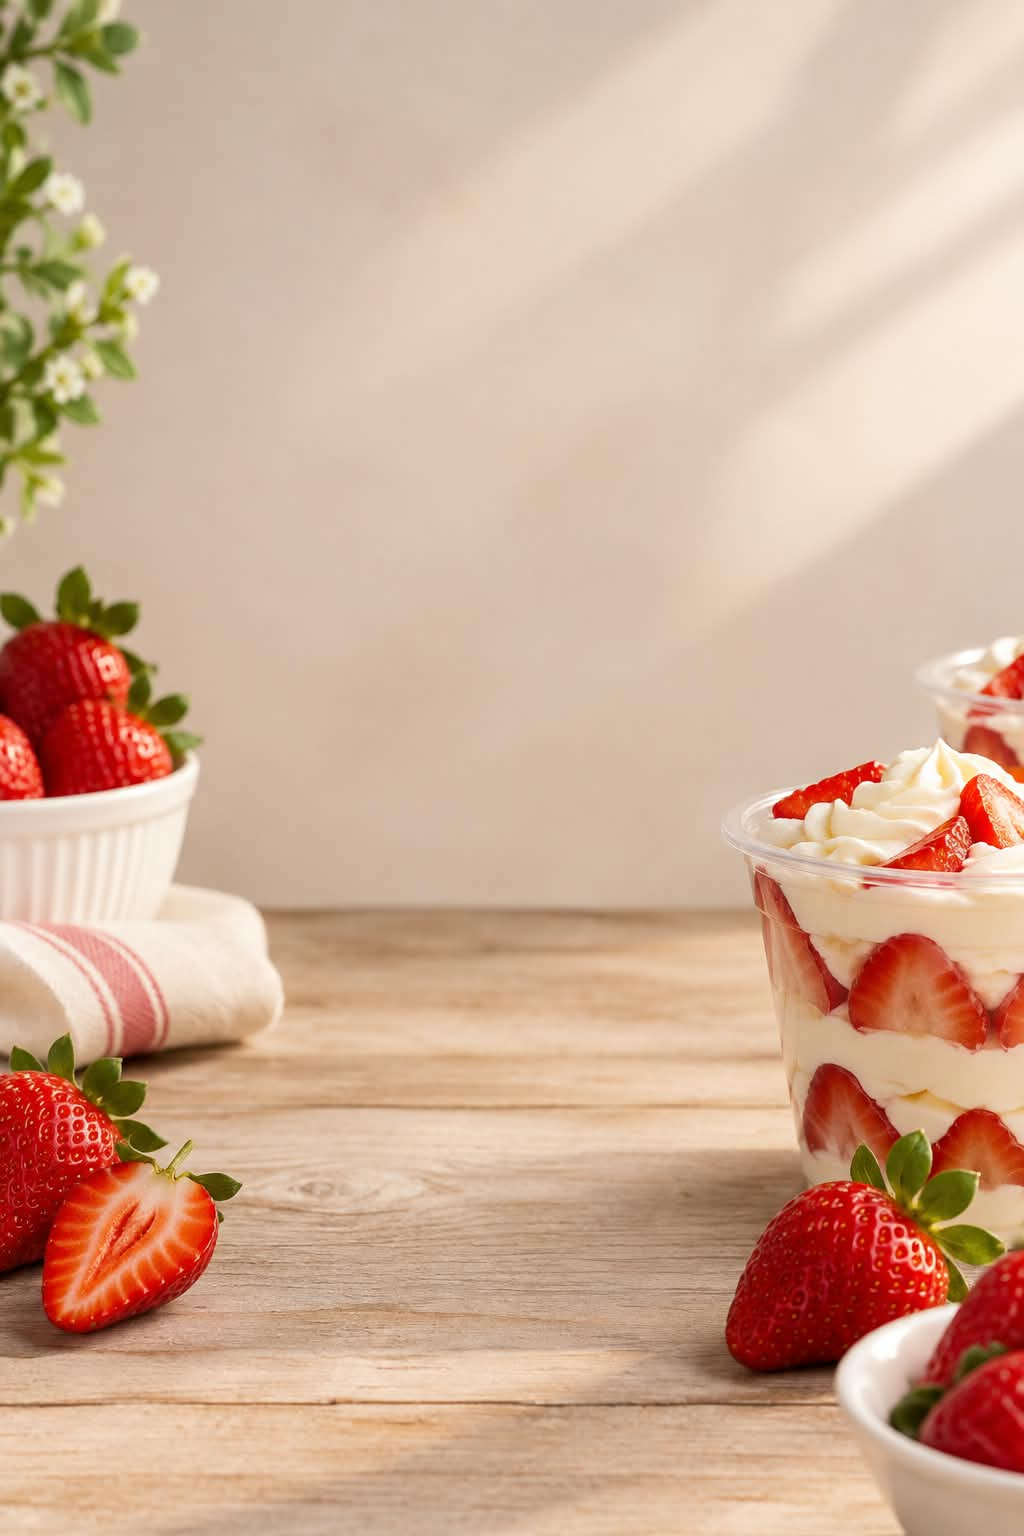
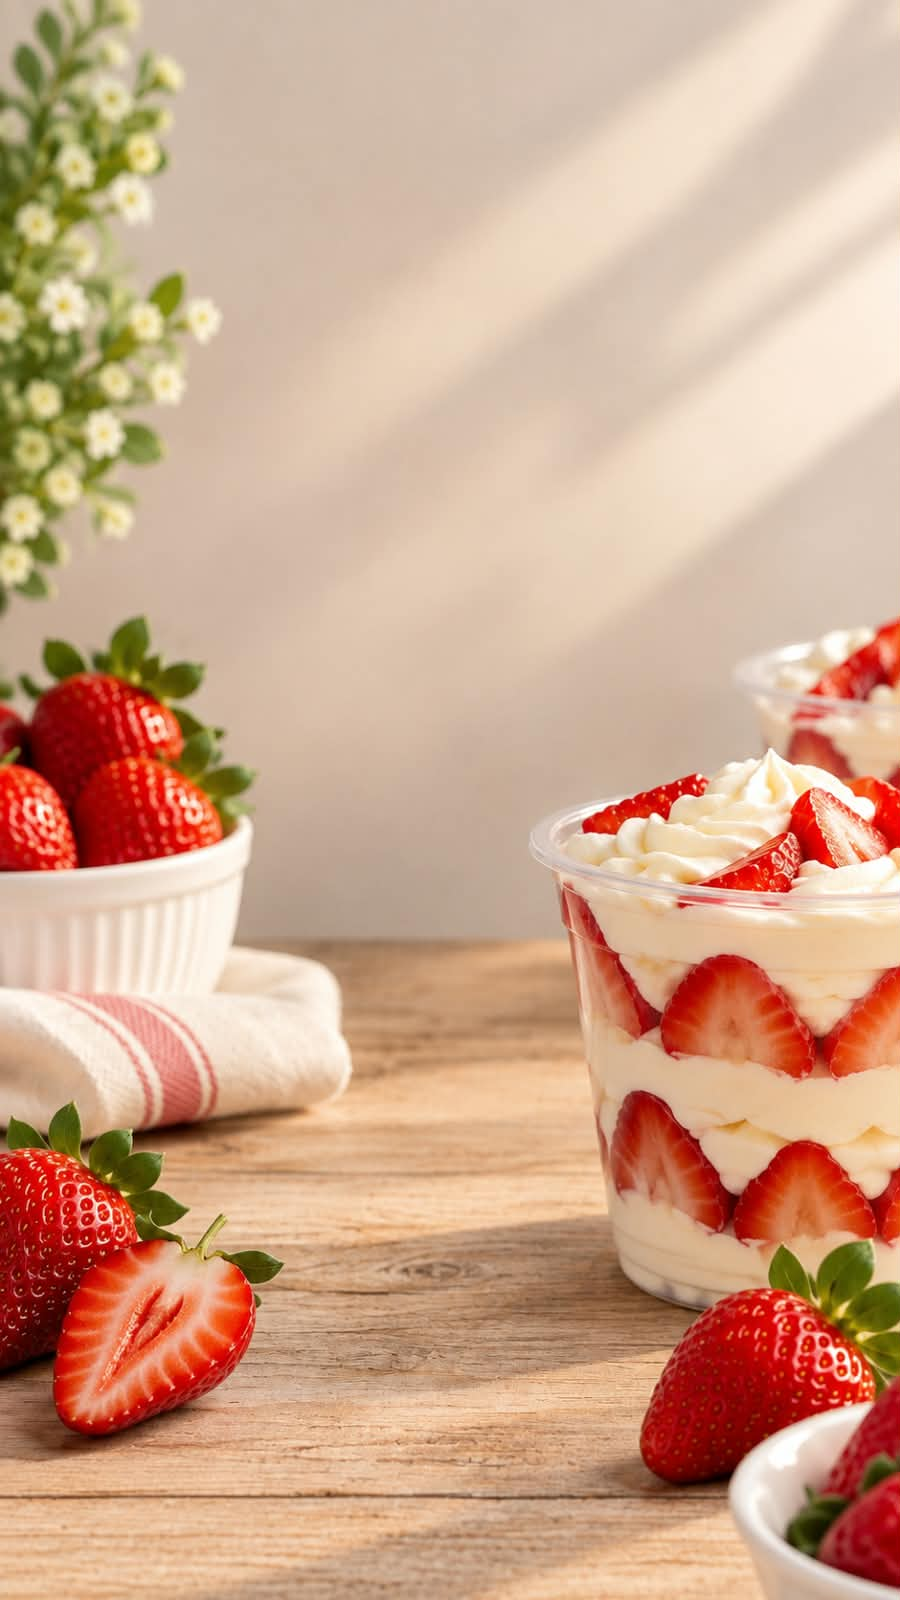
Fondo movil hero actualizado (fondo nahimar 2)

diff --git a/index.html b/index.html
@@ -85,7 +85,7 @@
     <section id="inicio" class="hero">
       <div class="hero-bg" data-parallax="0.18">
         <picture>
-          <source media="(max-width: 820px)" srcset="assets/img/fondo-nahimar.jpg">
+          <source media="(max-width: 820px)" srcset="assets/img/fondo-nahimar.jpg?v=2">
           <img src="assets/img/banner-fresas.jpg" alt="">
         </picture>
       </div>
